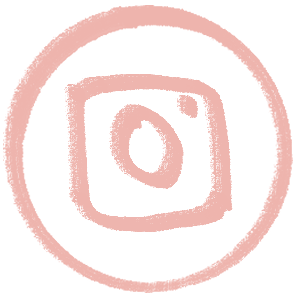
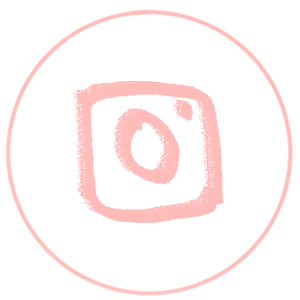
a

Changed region(s): [[0.21, 0.24, 0.78, 0.78], [0.0, 0.0, 0.99, 0.99]]

diff --git a/css.css b/css.css
@@ -29,8 +29,8 @@ html,body {
     display:inline-block;
     width:46px;
     margin:8px;
-    filter: saturate(2);
-    opacity:0.66;
+    opacity:0.7;
+    transition:0.3s;
 }
 
 .icon:hover{
@@ -68,18 +68,17 @@ html,body {
     font-family: Work Sans, sans-serif;
     font-weight: 400;
     line-height: 140%;
-    color:white;
+    color:#98E2BD;
     text-transform: uppercase;
     text-decoration: none;
     padding:16px;
-    background-color: #70DDCA;
-    opacity:0.7;
     margin:auto;
     margin-bottom:36px;
-    border-radius: 6px;
+    border: 1.6px solid;
+    border-radius: 10px;
+    transition: 0.3s;
 }
 
 .button:hover{
-    background-color:orange;
-    opacity:1;
+    color:#F2B88B;
 }
